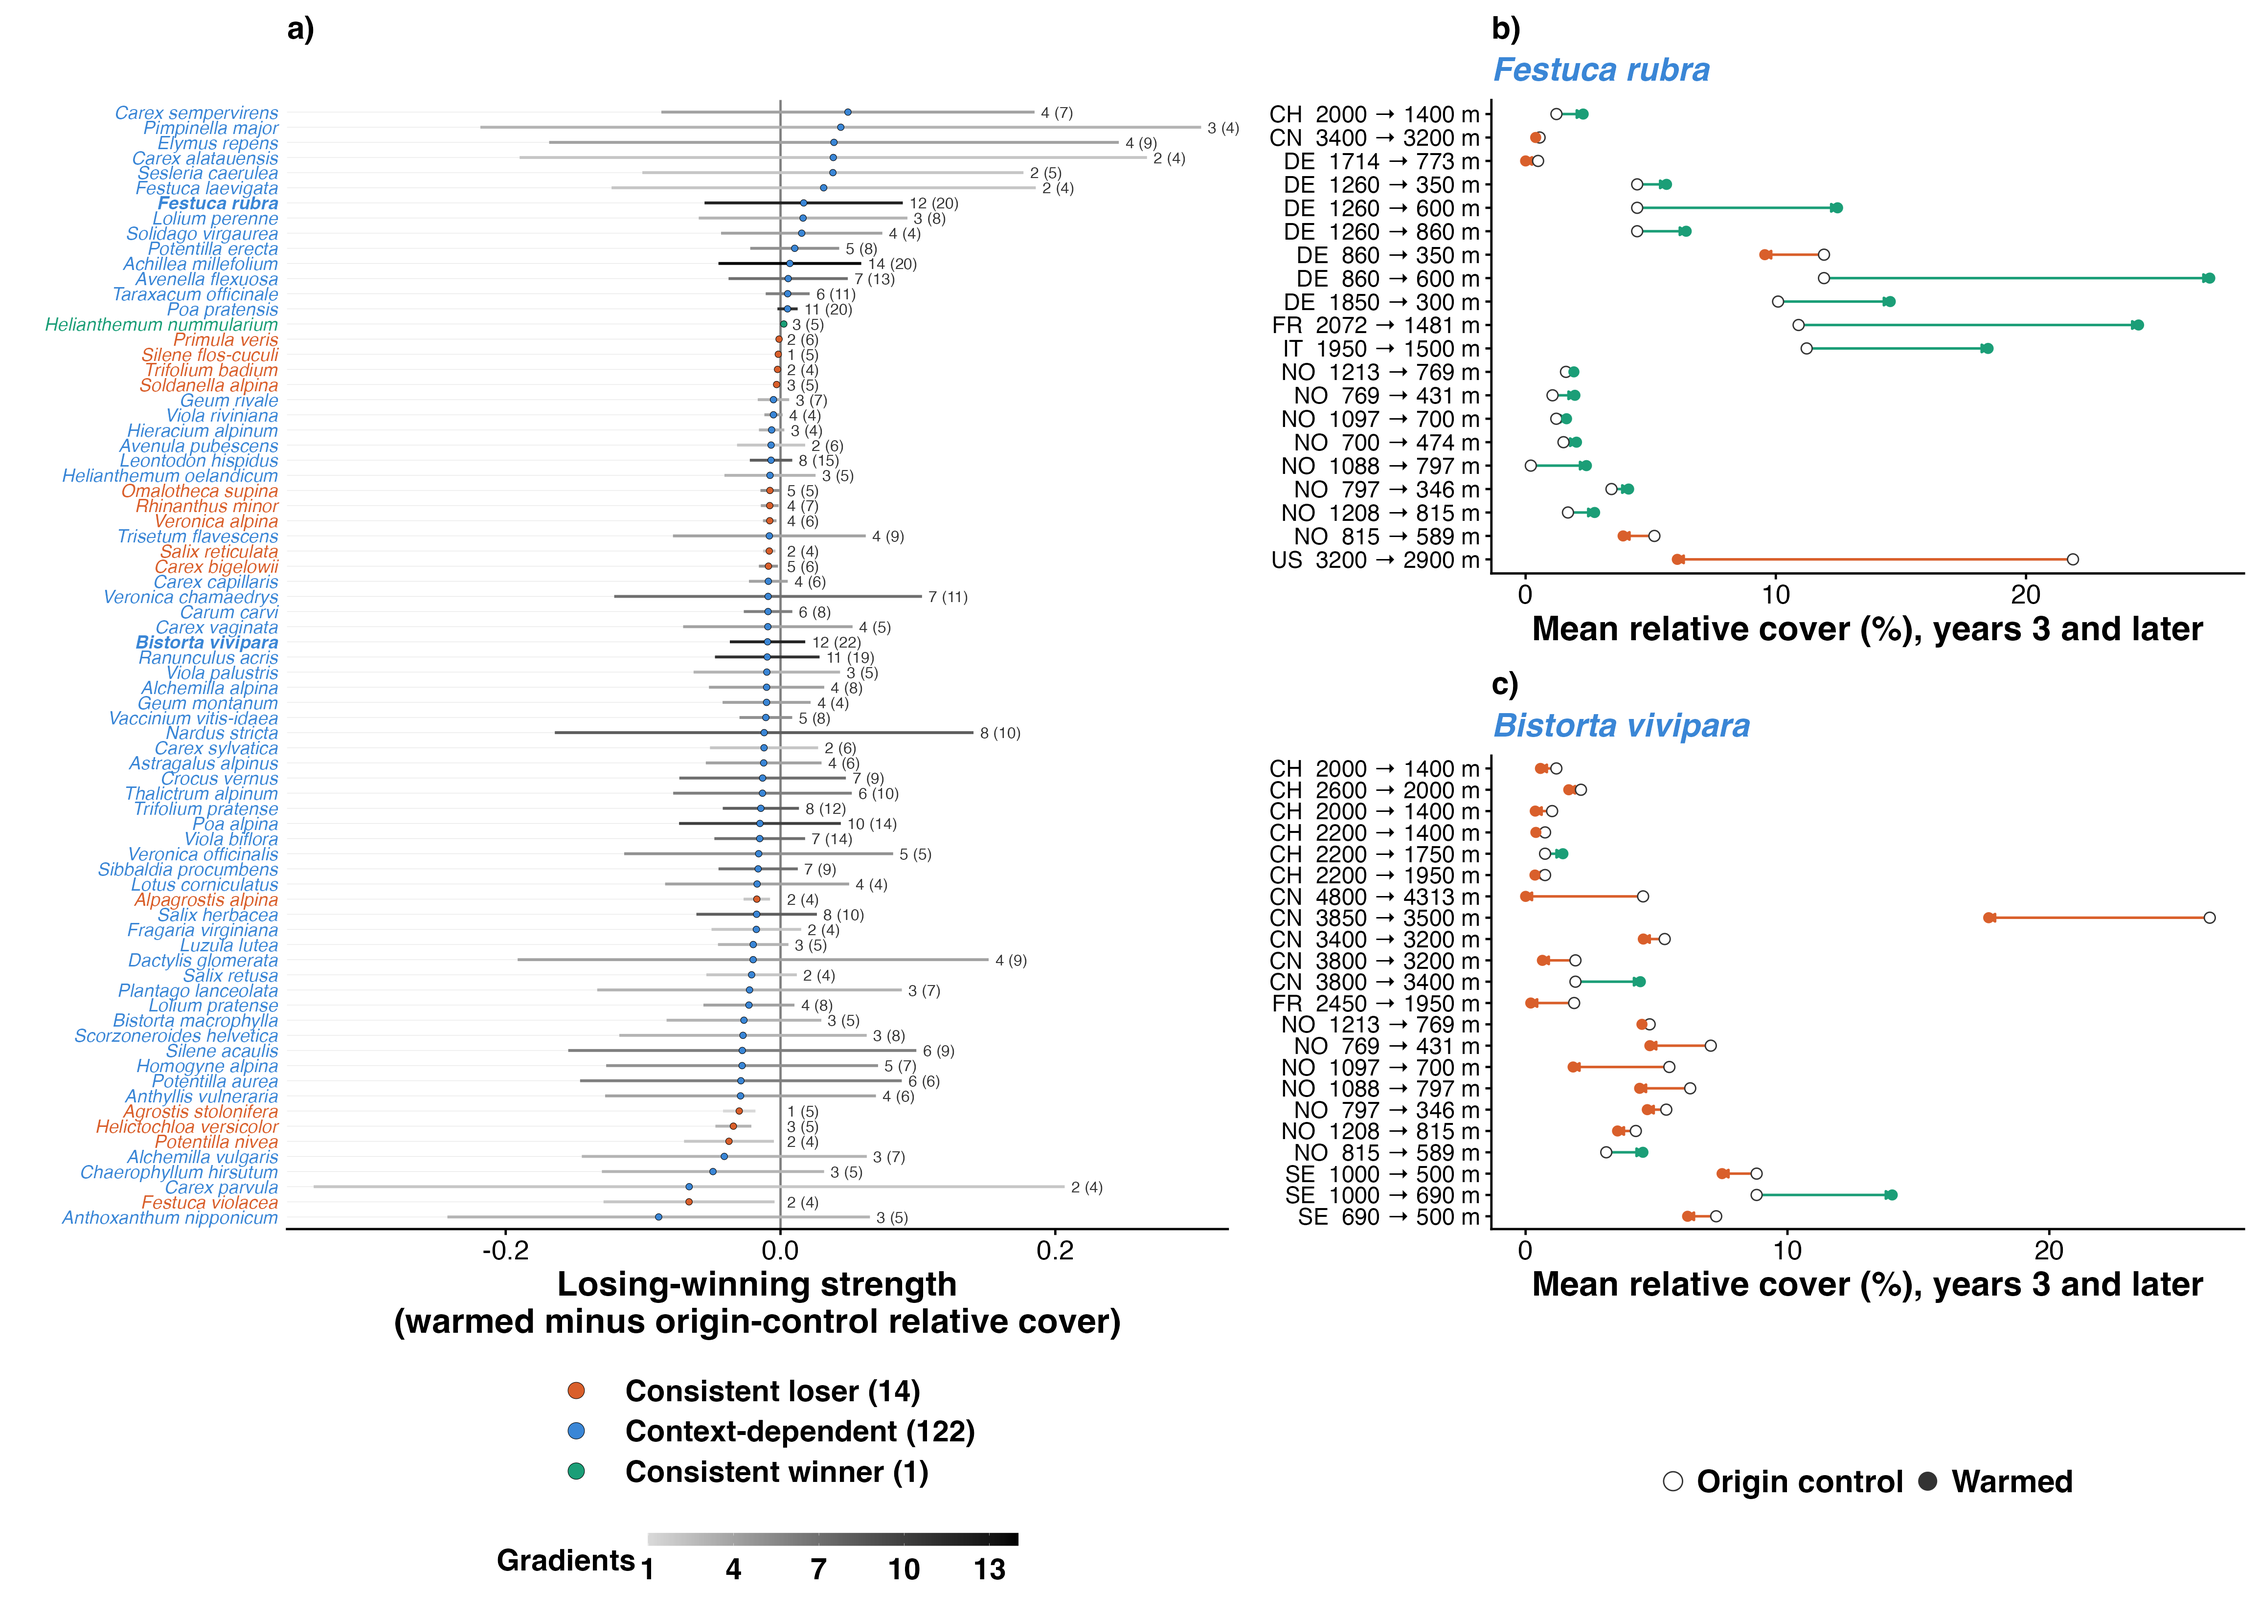
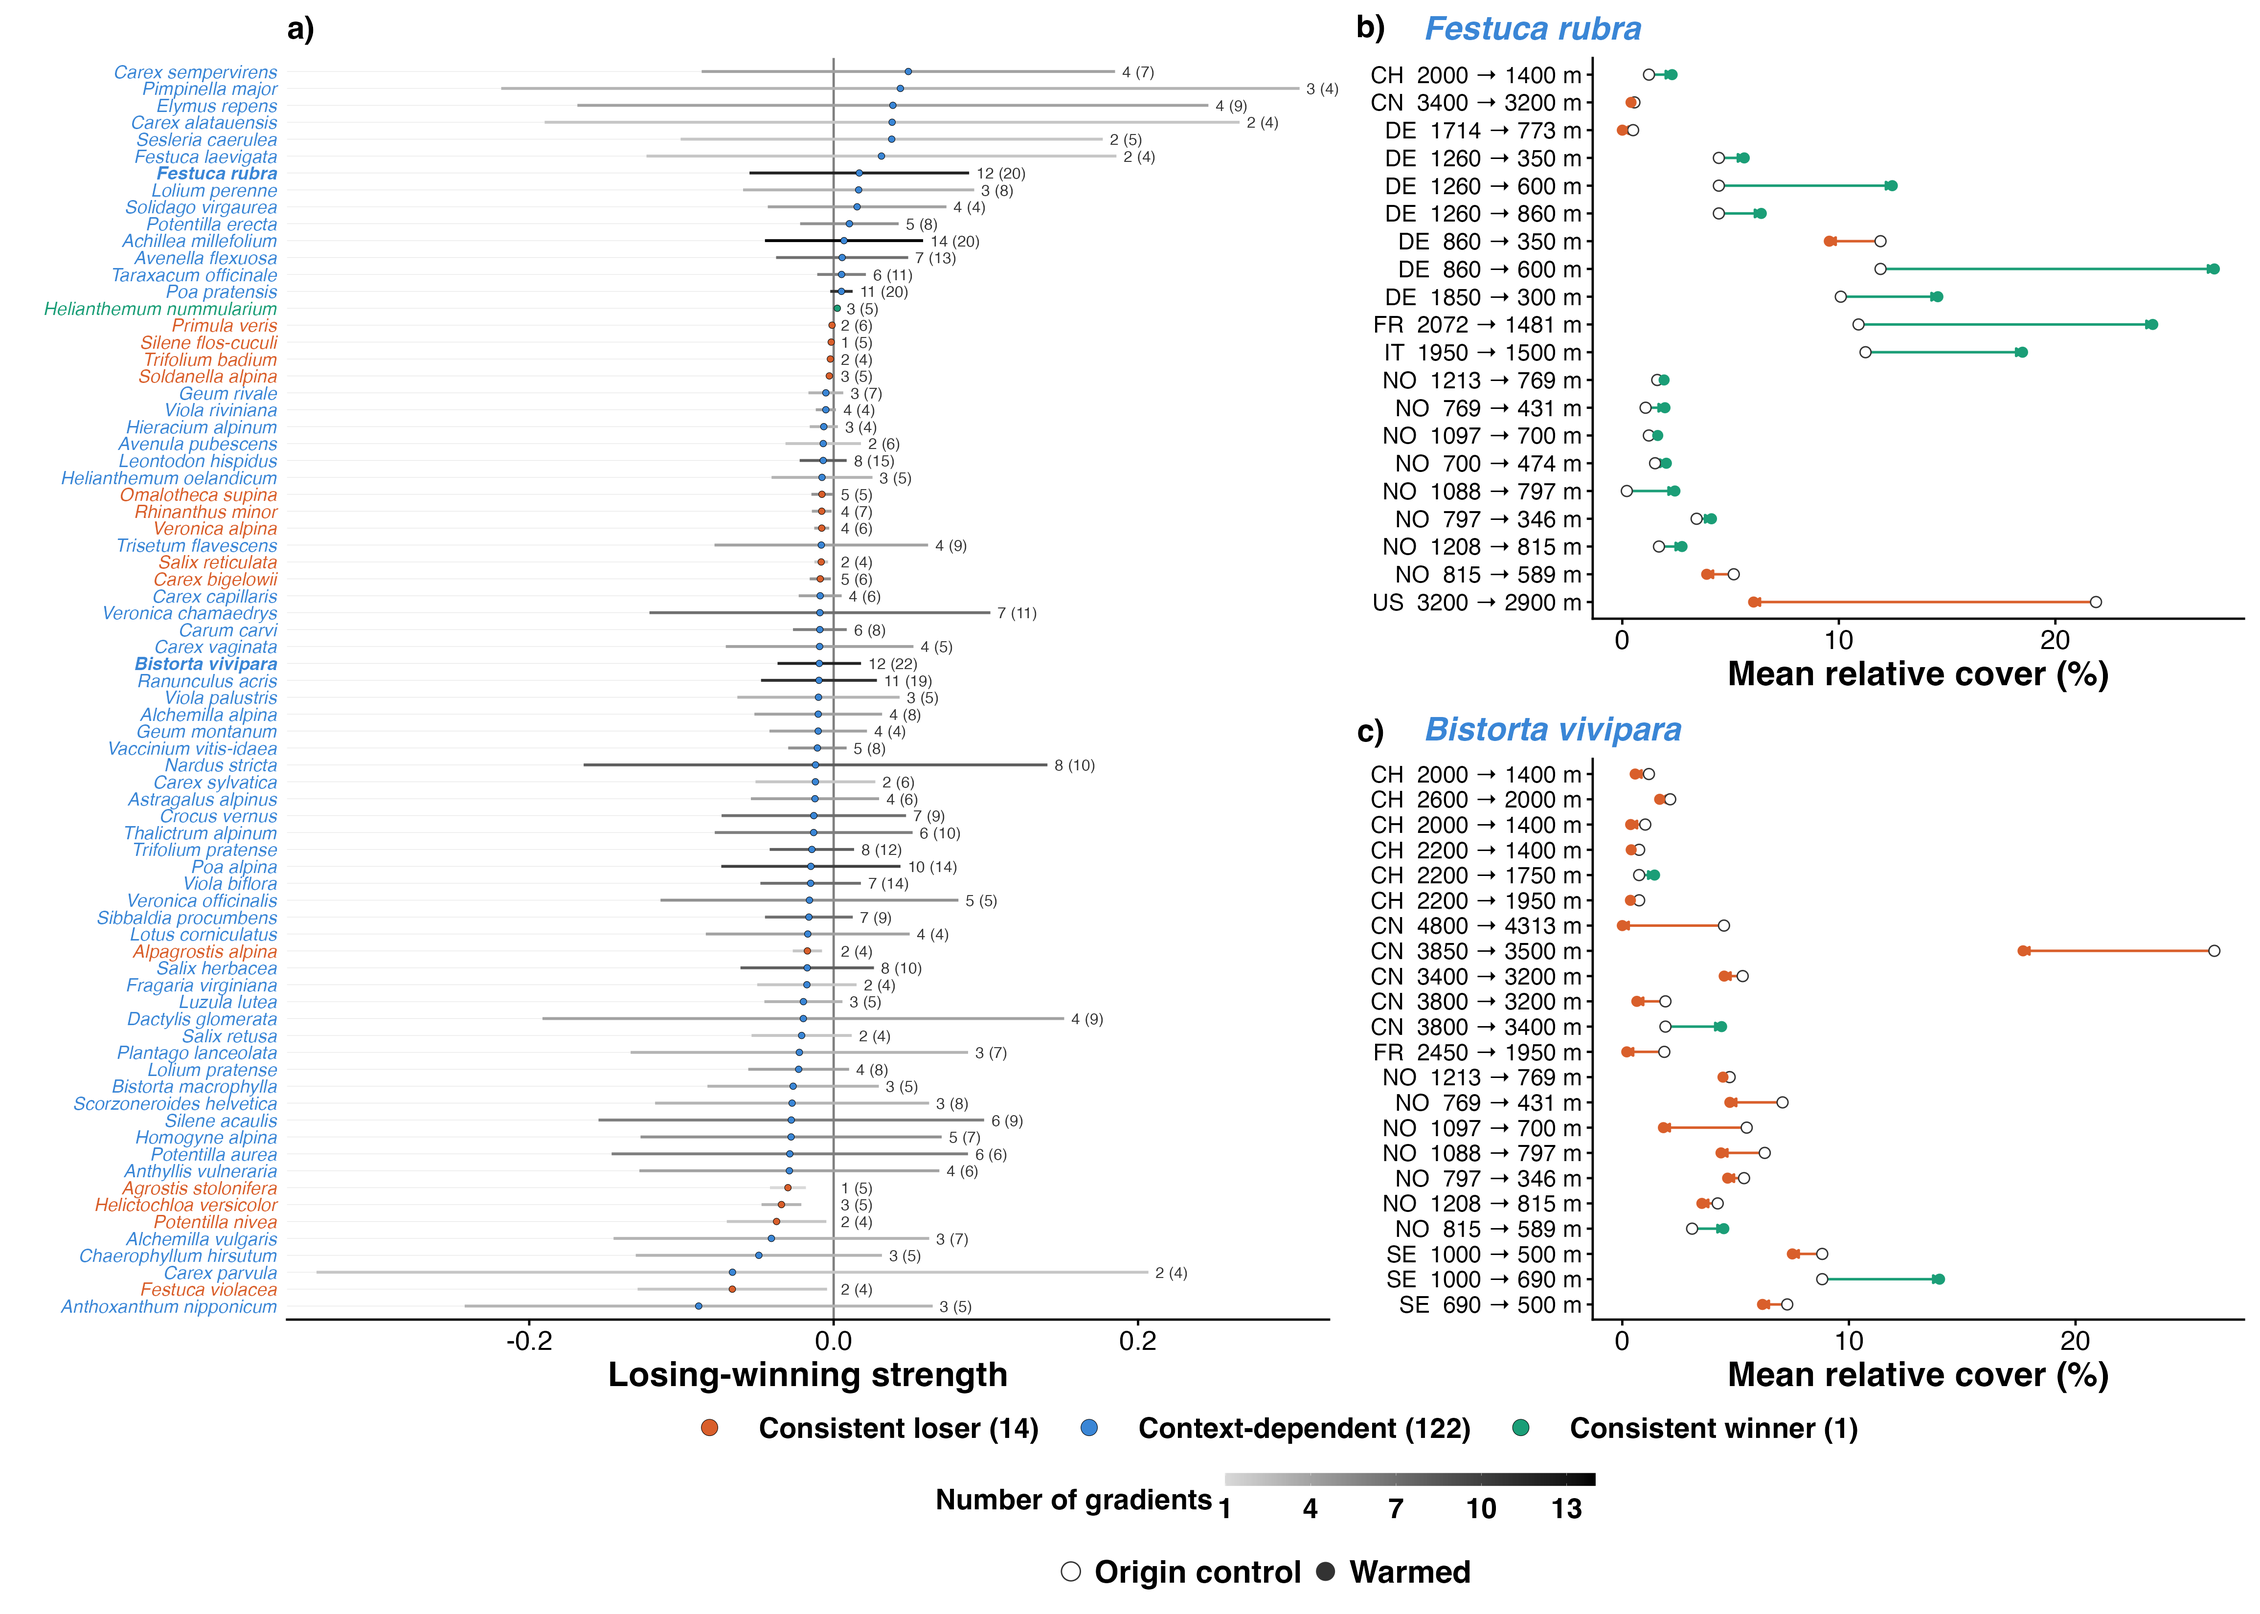
step 04: Fig S6 legends collected under the figure (classes in one line, number of gradients, origin control / warmed), b)/c) tag and species name on one line, shorter axis titles (Bills)

diff --git a/reports/04_classification.md b/reports/04_classification.md
@@ -61,7 +61,7 @@ Fig 2 corner panels follow once four species are named (MILESTONES).
 
 ![Fig S6 draft](../figures/diagnostics/04_figS6_draft.png)
 
-Fig S6 b) and c): Festuca rubra and Bistorta vivipara, the highest and lowest pooled strength among species in at least 12 gradients; one row per experiment, mean relative cover over years 3 and later in origin controls (hollow) and warmed plots (filled).
+Fig S6 b) and c): Festuca rubra and Bistorta vivipara, the highest and lowest pooled strength among species in at least 12 gradients; one row per experiment (country, origin to destination elevation), mean relative cover over years 3 and later in origin controls (hollow) and warmed plots (filled).
 Fig S6 a): point = pooled strength, filled by class; line = 95% interval including the variation among experiments (a line that does not cross zero marks a consistent loser or winner), shaded by the number of gradients and labelled gradients (experiments). 63 context-dependent species with a pooled strength between -0.005 and +0.005 are not shown.
 
 ## Warnings captured
